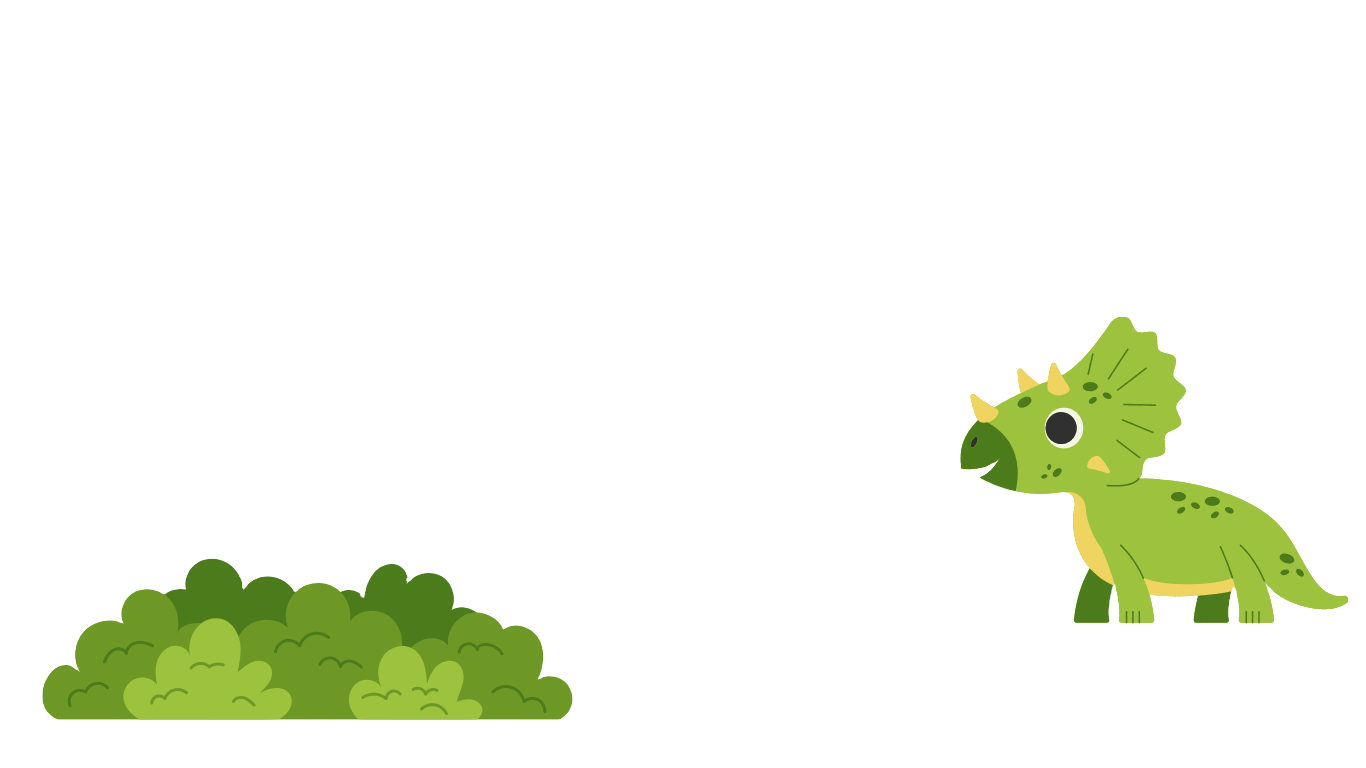
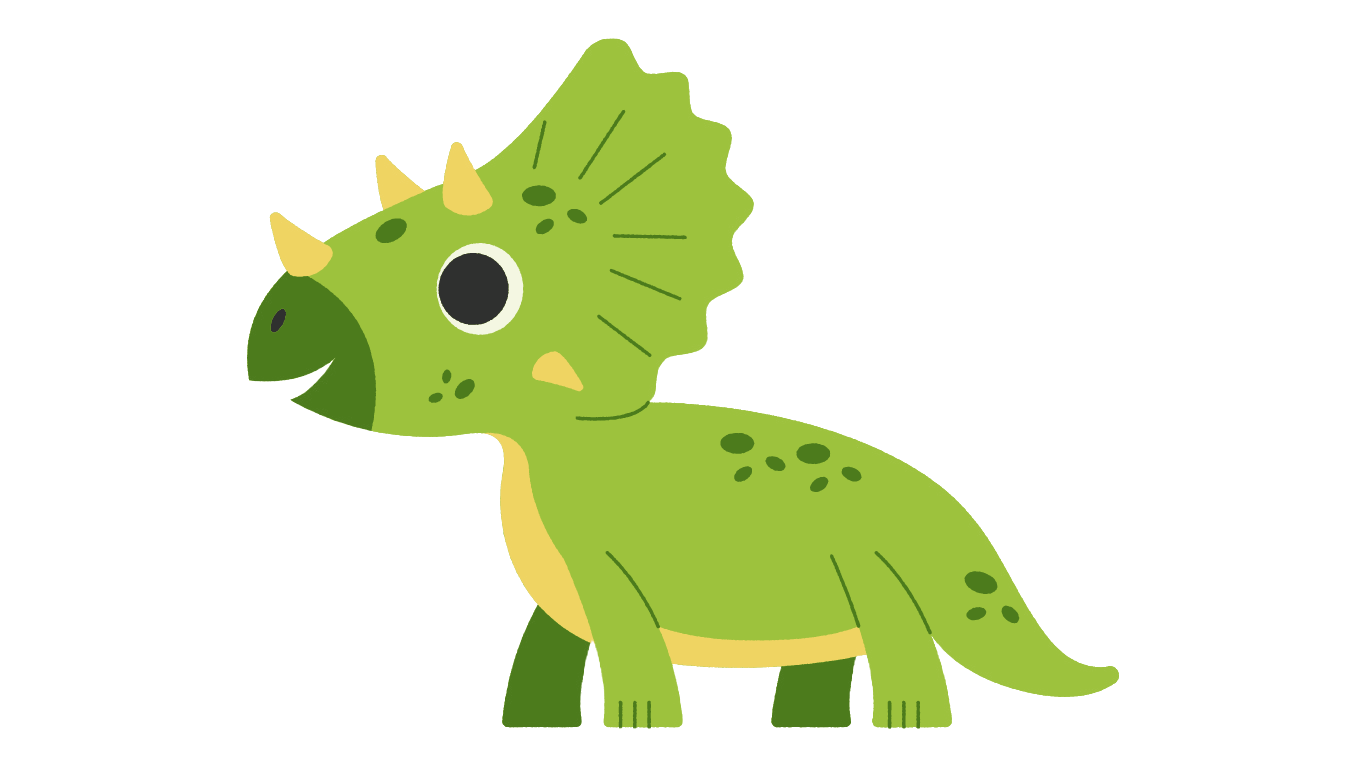
4:05 pm

diff --git a/styles.css b/styles.css
@@ -14,6 +14,38 @@
     src: url('/antipasto/Antipasto-Pro-Regular-trial.ttf'); /* URL to your font file */
   }
 
+/*style navbar*/
+  nav {
+    text-align: center;
+    font-size: 16pt;
+    position: sticky;
+    z-index: 1;
+    top: 0;
+  }
+  
+  ul {
+    list-style-type: none;
+    background-color: #8ACFEB;
+    overflow: hidden;
+    padding: 10px;
+  }
+  
+  li {
+    display: inline;
+  }
+  
+  li a {
+    text-decoration: none;
+    color: #D7F2FD;
+    padding: 14px;
+    font-family: 'Century Gothic';
+  }
+  
+  li a:hover {
+    color: #F4F7E2;
+    background-color: #EFD462;
+  }
+
   body {
     background-color: #D7F2FD;
     background-size: cover;
@@ -105,6 +137,31 @@
     justify-content: center;
     margin-top: 50px;
   }
+
+  #animated-element { 
+    width: 20%;
+    background-image: url("/images/dinosaur.png");
+    background-repeat: no-repeat;
+    position: relative;
+    animation: move 4s infinite alternate; /* Apply the 'move' animation */
+  }
+
+  @keyframes move {
+    0% {
+        left: 1000px; /* Initial position */
+        top: 450px;
+        transform: rotate(25deg); /* Start rotation angle */
+    }
+    100% {
+        left: 1000px; /* Final position */
+        top: 450px;
+        transform: rotate(0deg); /* Start rotation angle */
+    }
+  }
+
+
+
+
 
   #grass{
     width: 100%;

diff --git a/index.html b/index.html
@@ -10,7 +10,14 @@
 </head>
 
 <body>
-        
+    <!--navigation bar-->
+    <nav>
+        <ul>
+          <li><a href='#technical-work-section'><b>dino default</b></a></li>
+          <li><a href='#other-section'><b>visualization</b></a></li>
+        </ul>
+    </nav>
+    
     <div class="outer-container">
         <h1 id="title"> Dinosaur </h1>
         <p> Dinosaur question LOLOL WE LOVE dinosaurs yay okay bye!</p>
@@ -21,11 +28,12 @@
             <button type="button" class="option-button"><p class="option-button-text">Option C</p></button>
             <button type="button" class="option-button"><p class="option-button-text">Option D</p></button>
         </div>
-
     </div>
 
+    <img id="animated-element" src="/images/dinosaur.png" alt="Animated Image">
+
     <img alt="" class="fixed" id="grass" src="images/temp.png">
-    <img alt="" class="fixed" id="dinosaur" src="images/dinosaur.png">
+    <img alt="" class="fixed" id="dinosaur" >
 
 </body>
 </html>

diff --git a/extra.js b/extra.js
@@ -1,0 +1,3 @@
+var animatedElement = document.createElement('div');
+animatedElement.id = 'animated-element';
+document.body.appendChild(animatedElement);
